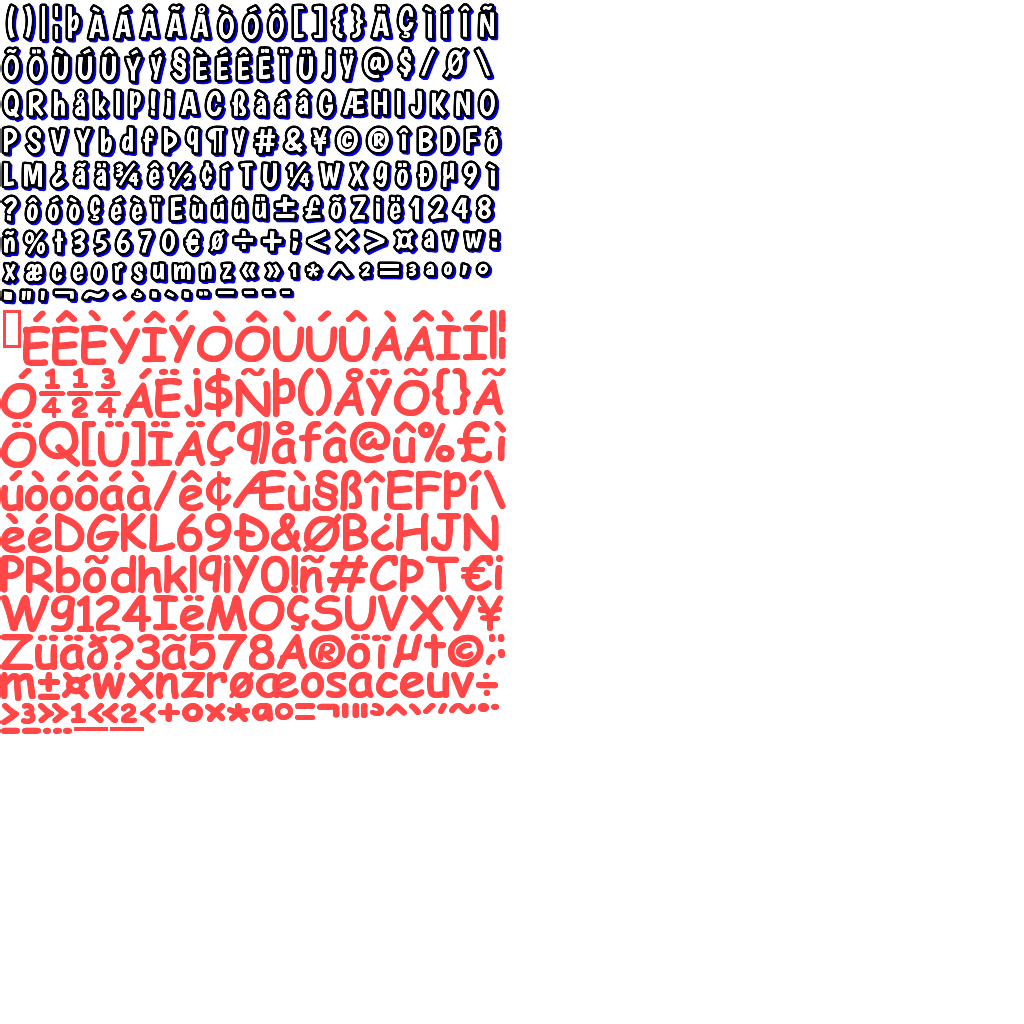
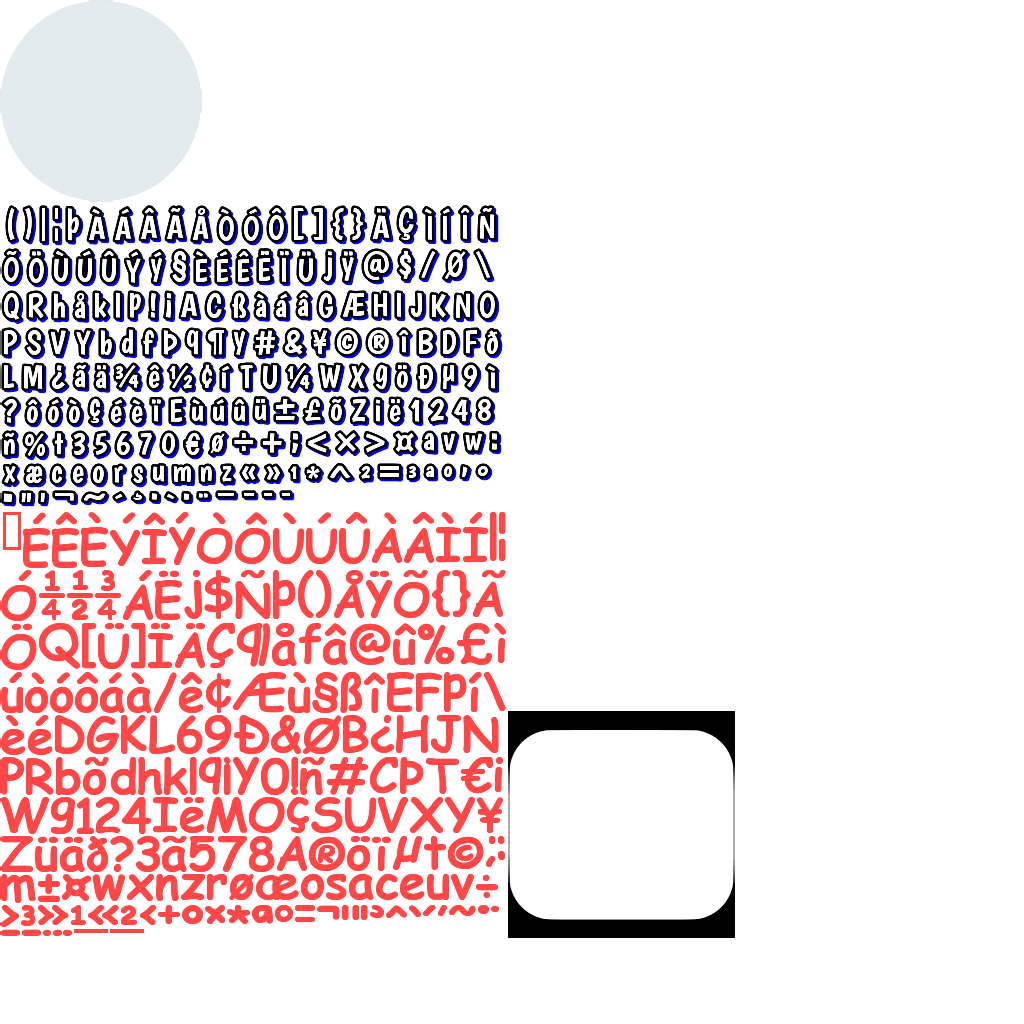
Update joystick UI

Changed region(s): [[0.0, 0.0, 0.7188, 0.9375]]

diff --git a/core/src/main/java/com/tdt4240Grp04/clashofclaws/states/PlayController.java b/core/src/main/java/com/tdt4240Grp04/clashofclaws/states/PlayController.java
@@ -13,13 +13,14 @@ public class PlayController {
     private Stage stage;
     private Touchpad touchpad;
     private Entity player;
+    private Skin skin;
 
     public PlayController(Entity player) {
         this.player = player;
         stage = new Stage(new FitViewport(Gdx.graphics.getWidth(), Gdx.graphics.getHeight()));
         Gdx.input.setInputProcessor(stage);
 
-        Skin skin = new Skin(Gdx.files.internal("uiskin.json"));
+        skin = new Skin(Gdx.files.internal("uiskin.json"));
 
         touchpad = new Touchpad(10, skin);
         touchpad.setBounds(100, 100, 200, 200);
@@ -47,5 +48,6 @@ public class PlayController {
 
     public void dispose() {
         stage.dispose();
+        skin.dispose();
     }
 }
